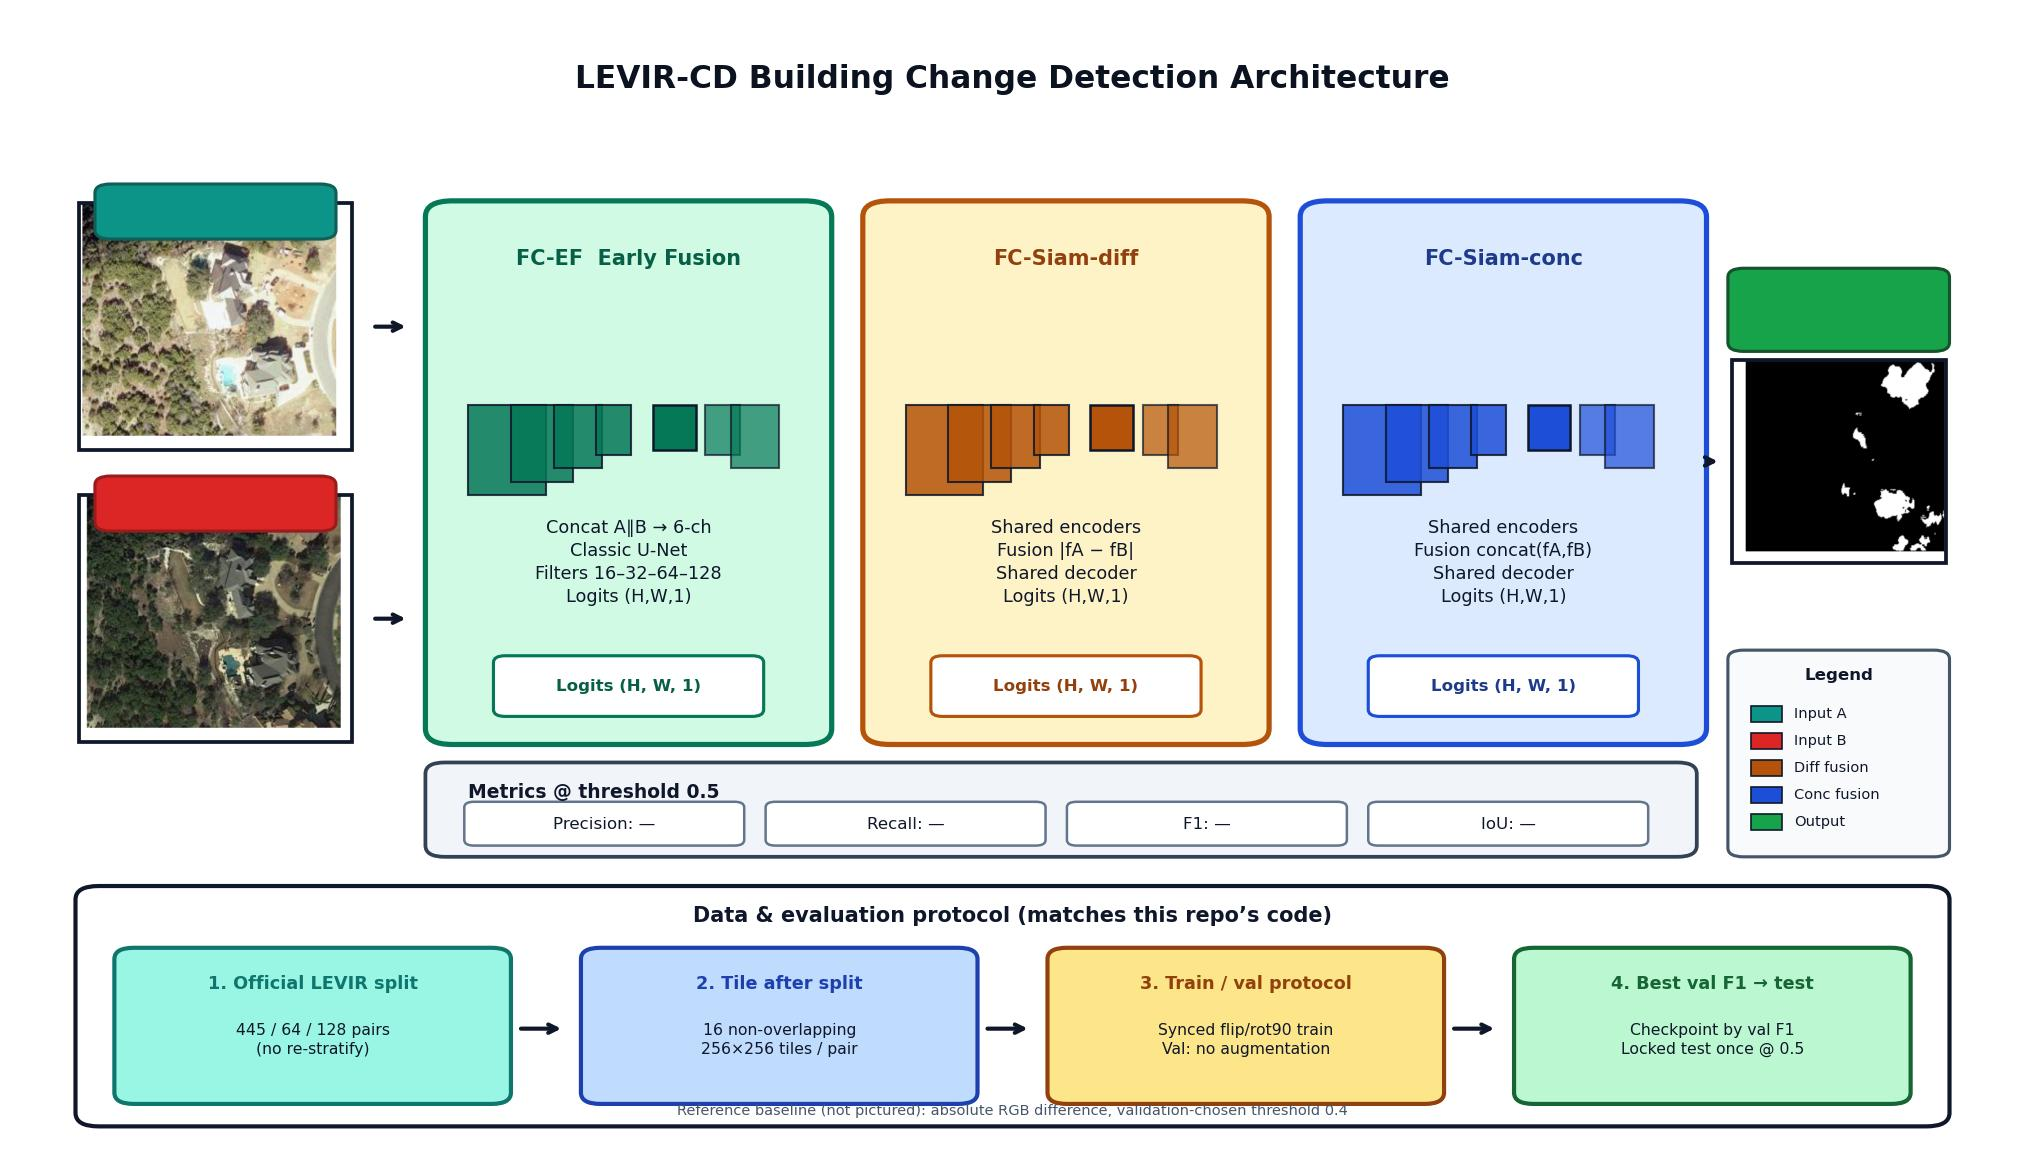
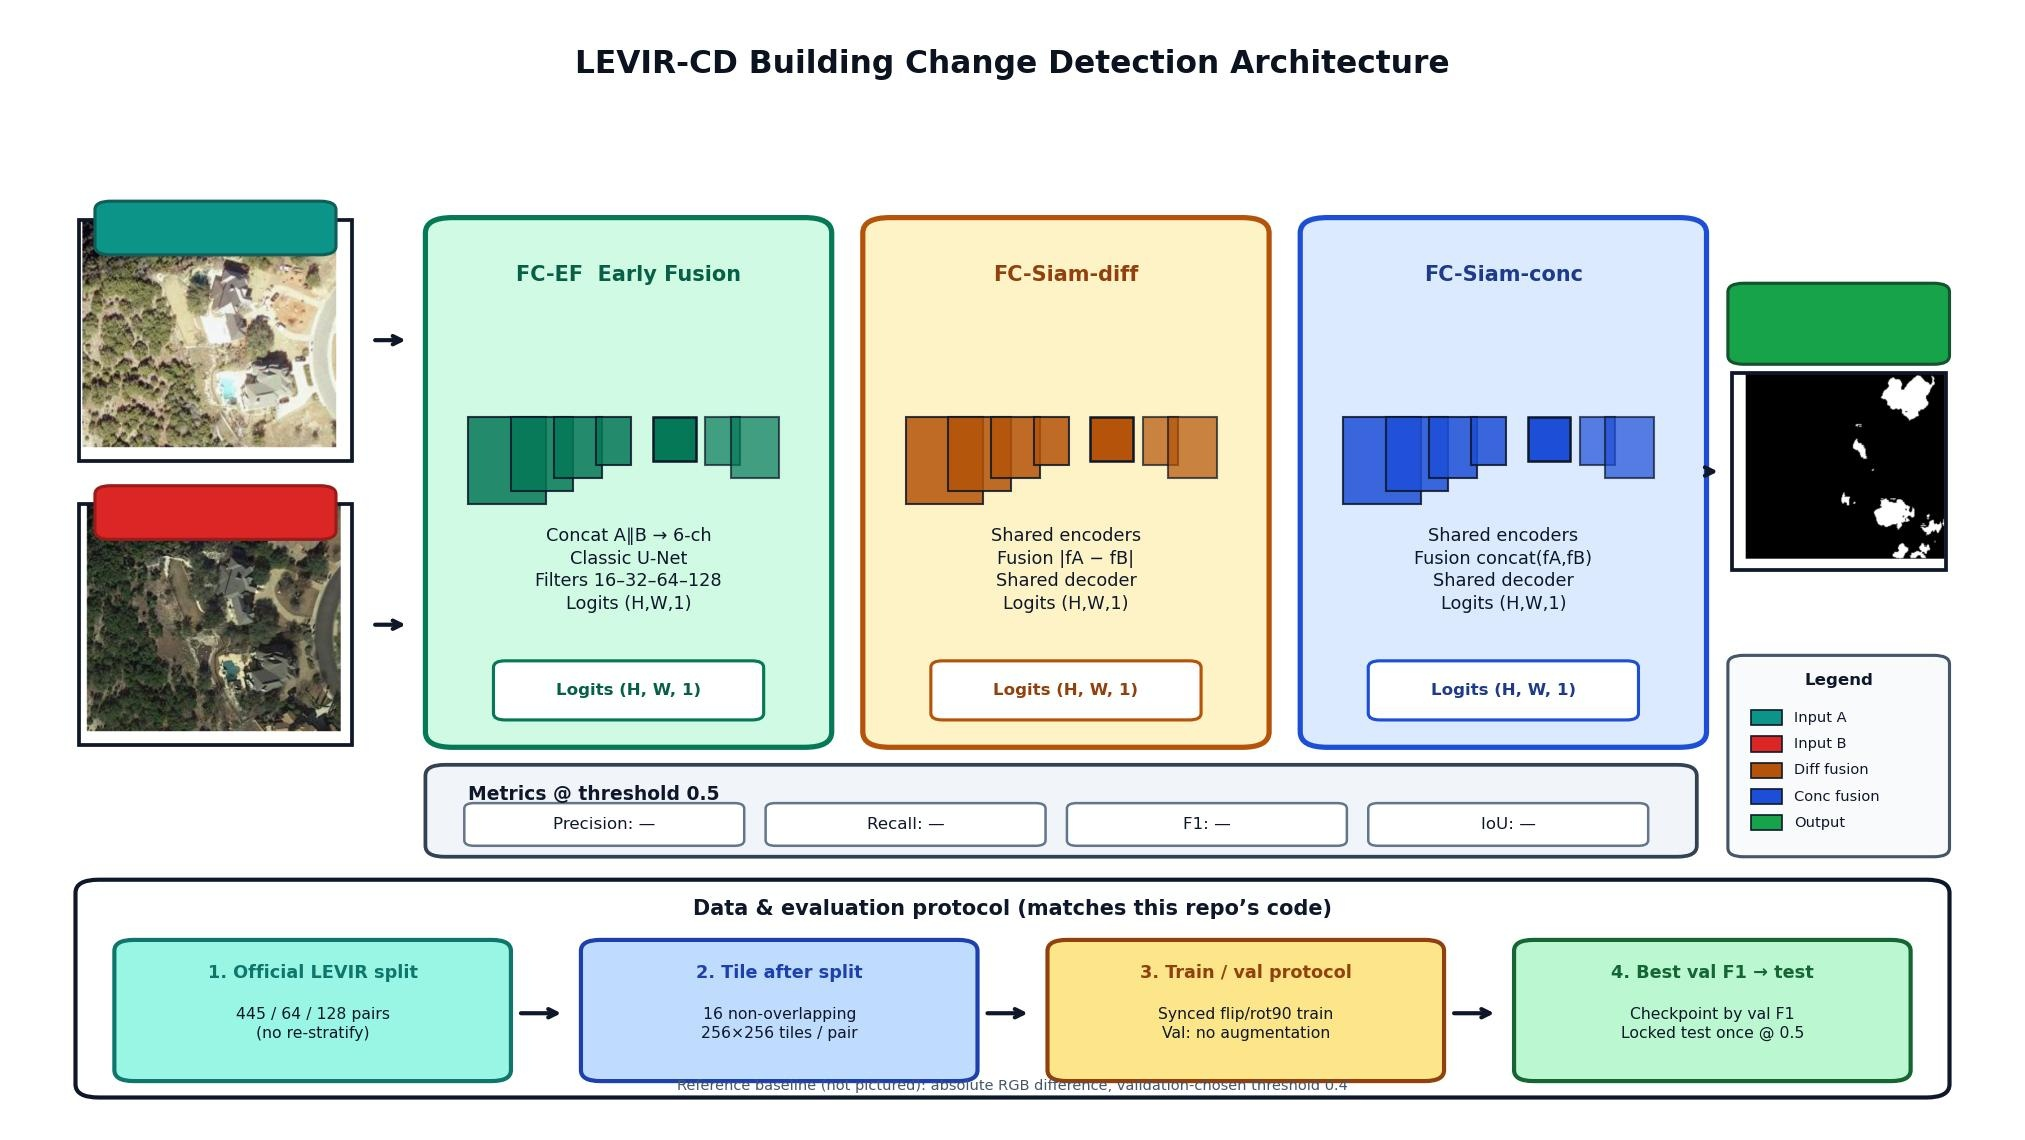
Replace architecture figure with a no-subtitle version and new filename.

diff --git a/report/build_ieee_report.py b/report/build_ieee_report.py
@@ -450,7 +450,7 @@ def build():
     )
     figure(
         doc,
-        FIG / "architecture.jpg",
+        FIG / "architecture_diagram.jpg",
         "Fig. 1. BuildSafe Vision pipeline: official LEVIR split, then non-overlapping "
         "256×256 tiles; absolute-difference reference plus FC-EF / FC-Siam-diff / "
         "FC-Siam-conc under one protocol.",

diff --git a/report/report.md b/report/report.md
@@ -73,7 +73,7 @@ Primary checkpoint metric is change-class F1 at threshold 0.5. Secondary metrics
 
 We organize methods into the three course roles. Reference baseline: absolute RGB difference with a validation-chosen threshold (0.4). Strong baseline: FC-EF, a six-channel early-fusion U-Net (~483k params). Team investigation: shared-encoder FC-Siam-diff and FC-Siam-conc (~483k / ~564k), which fuse with |fA−fB| or feature concatenation. Fig. 1 shows the shared pipeline. All learned paths map logits → sigmoid → threshold 0.5.
 
-![Fig. 1. BuildSafe Vision pipeline: official LEVIR split, then non-overlapping 256×256 tiles; absolute-difference reference plus FC-EF / FC-Siam-diff / FC-Siam-conc under one protocol.](figures_compressed/architecture.jpg)
+![Fig. 1. BuildSafe Vision pipeline: official LEVIR split, then non-overlapping 256×256 tiles; absolute-difference reference plus FC-EF / FC-Siam-diff / FC-Siam-conc under one protocol.](figures_compressed/architecture_diagram.jpg)
 
 Training uses Adam (1e-3, weight decay 1e-4), batch 4, up to 30 epochs with early stopping, and best validation F1. We compare BCE versus BCE+Dice because change pixels are rare and Dice can emphasize overlap on the minority class [9]. Augmentation is synced flips and 90° rotations on A, B, and the mask so geometry stays aligned across dates. Principal seeds: 1511, 42, 123. The full matrix ran on the university CUDA GPU lab; Mac MPS was used only for smoke tests and early feasibility.
 

diff --git a/README.md b/README.md
@@ -108,7 +108,7 @@ We follow the Daudt et al. (2018) change-detection triad and score with change-c
 
 All learned paths: logits → sigmoid → threshold **0.5** → change-class F1 / IoU / P / R. Width `base=16`. Checkpoint by validation F1.
 
-![LEVIR-CD Building Change Detection Architecture — Daudt triad](docs/architecture.jpg)
+![LEVIR-CD Building Change Detection Architecture](docs/architecture_diagram.jpg)
 
 ```text
 Official LEVIR split (445 / 64 / 128)
